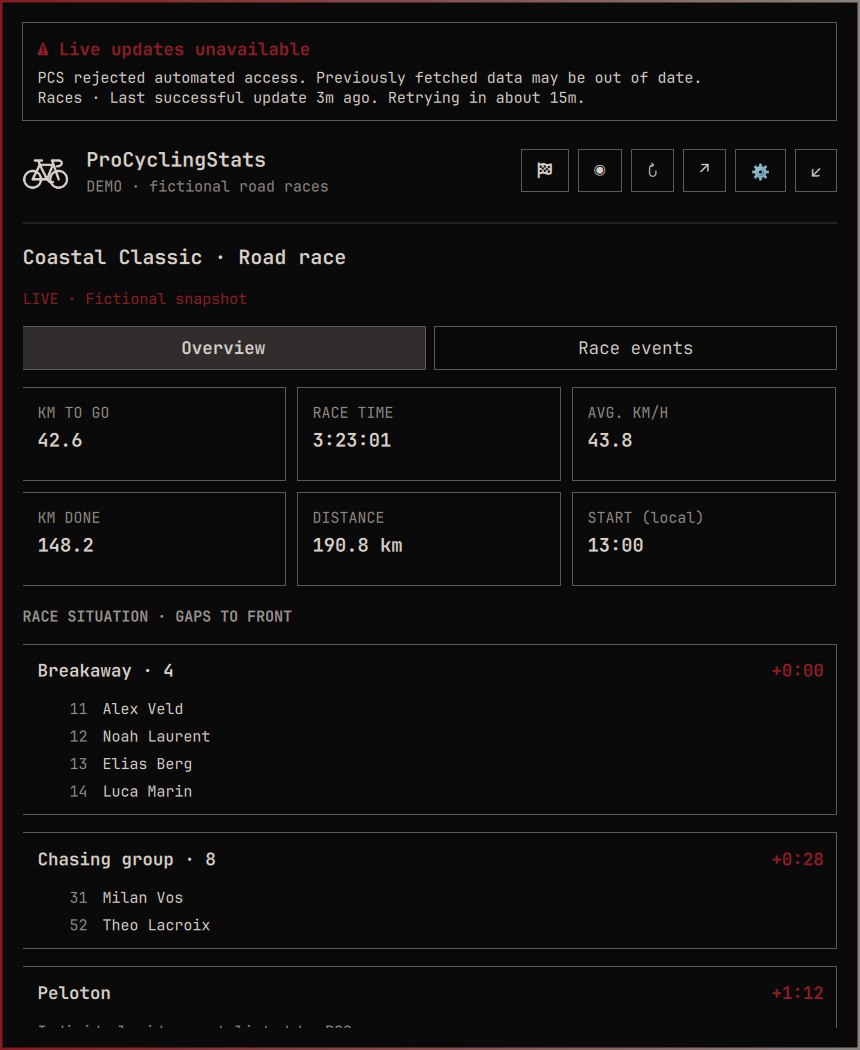
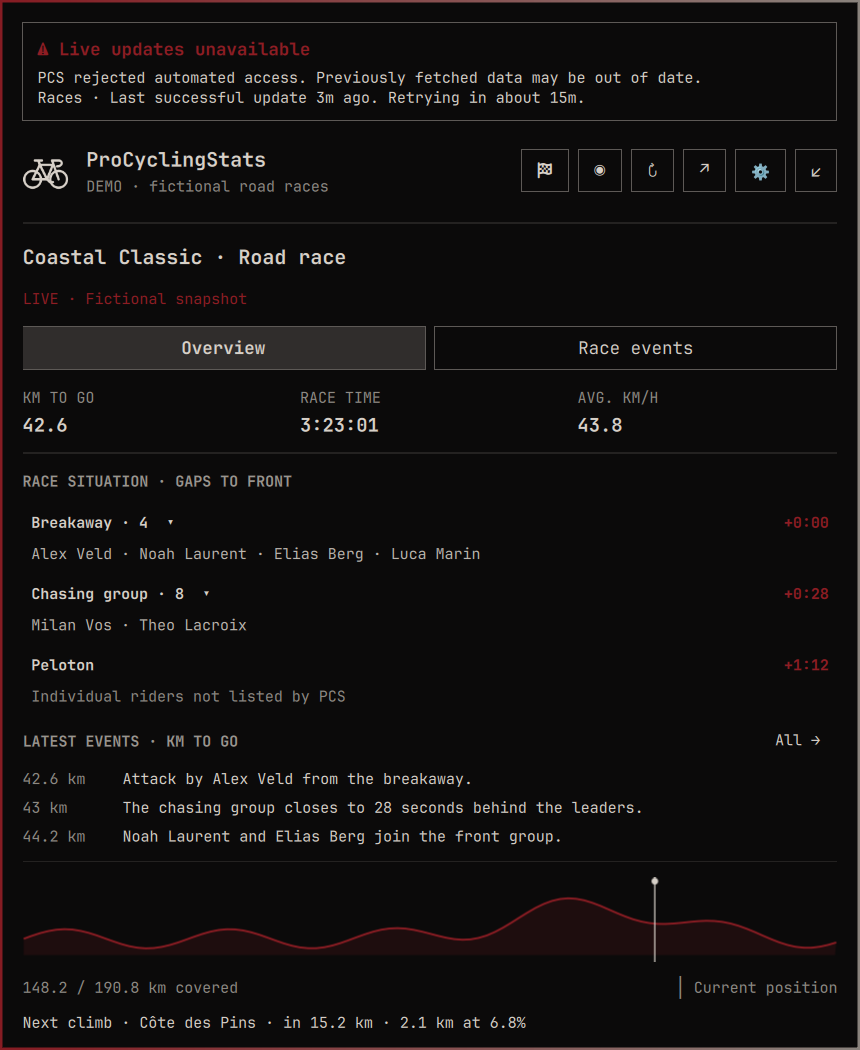
Document and capture the compact unified race overview

diff --git a/DESIGN.md b/DESIGN.md
@@ -78,3 +78,13 @@
 - Settings survived a shell restart. Verification restored default intervals
   (60/300/300 seconds), notification duration (8 seconds), and notifications off.
   Fictional settings and warning previews were captured; normal data fetching resumed.
+
+- Live overview: one metrics row, compact expandable group summaries, the latest
+  three events, and a smaller course profile with the next published course feature.
+  Event previews are limited to two lines; full events remain one click away.
+- Next-feature distance uses reported race progress, never a guessed zero when
+  progress is missing. Four additional model tests cover ordering, missing values,
+  exact arrival, and passed features (61 behavioral tests total).
+- Verified on the live World Championships: named groups and splits, recent
+  events and profile fit together. Pointer clicks expand/collapse rider rows;
+  the expanded list retains rider bibs. Fictional preview refreshed.
